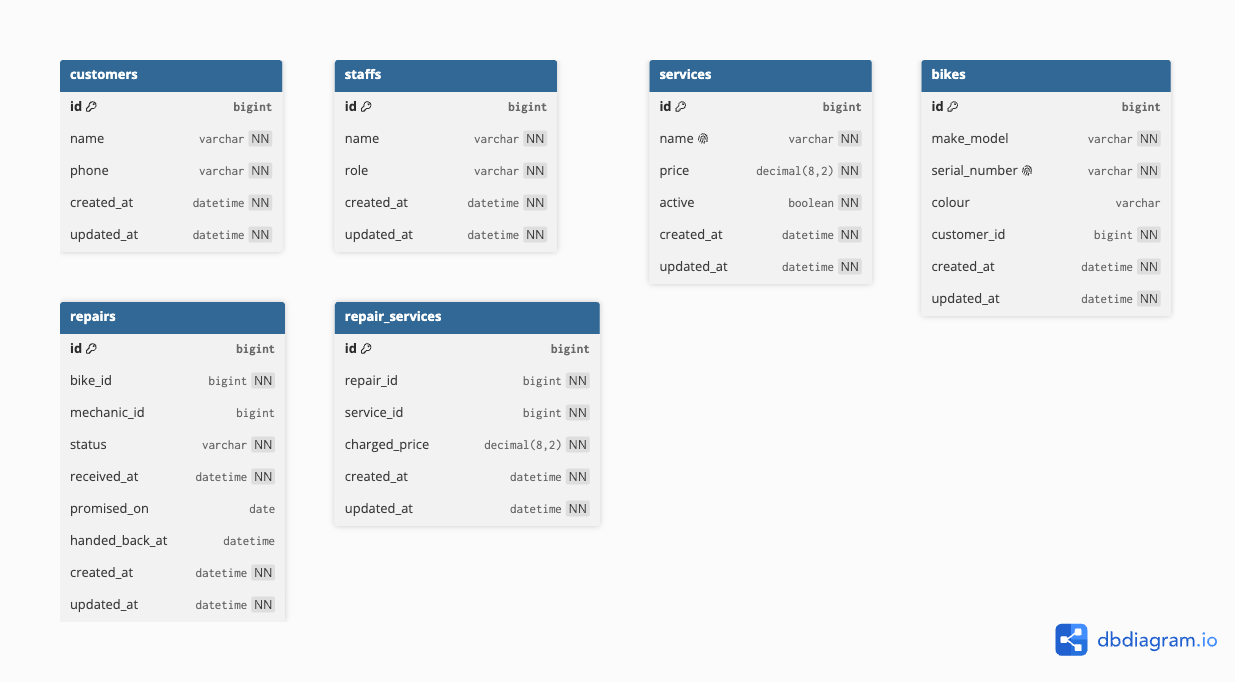
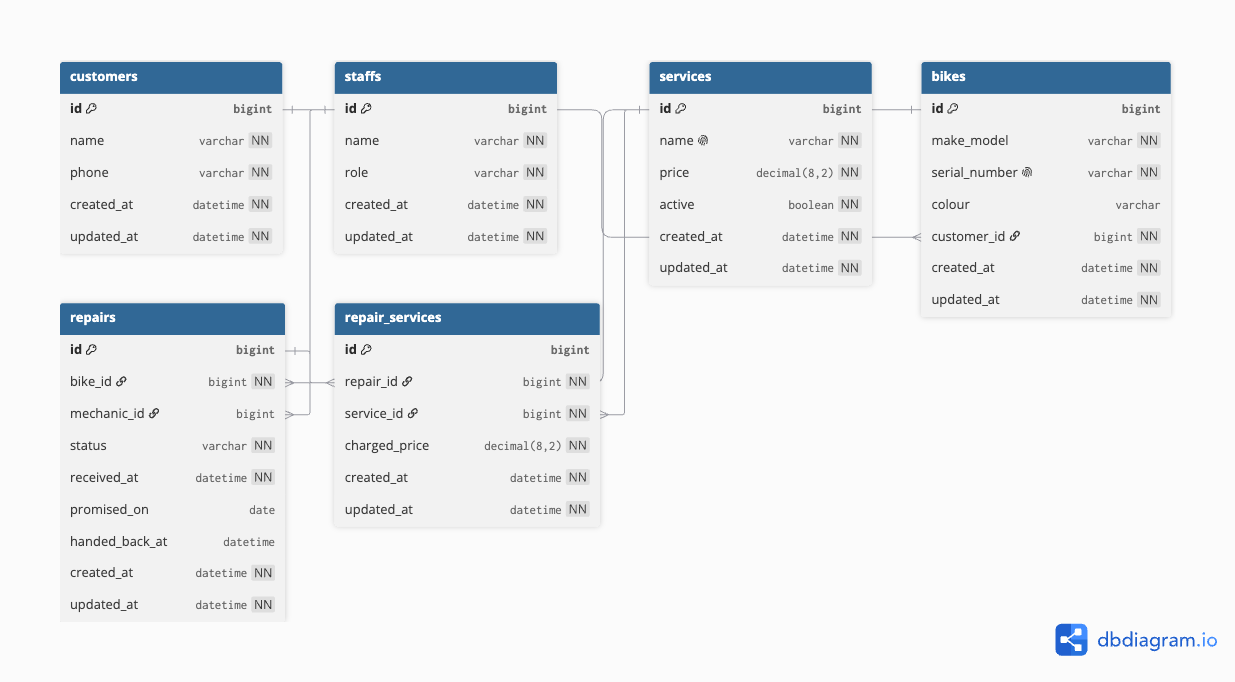
Show relationships in the domain model diagram

diff --git a/docs/domain-model.md b/docs/domain-model.md
@@ -9,9 +9,9 @@
 The image above was produced from this code in [dbdiagram.io](https://dbdiagram.io).
 It compiles as it stands and describes the schema built in Lab 5 (see `db/schema.rb`):
 six tables, `bigint` primary and reference columns, `decimal(8,2)` money, and the
-unique indexes the database enforces. Foreign-key constraints are **not** declared —
-the `_id` columns are plain columns today; the constraints and the Rails associations
-that use them are added in Lab 7.
+unique indexes the database enforces. The relationships are drawn from the `_id`
+columns. The database does **not** yet enforce them with foreign-key constraints —
+those, and the Rails associations that use them, are added in Lab 7.
 
 ```dbml
 Table customers {
@@ -83,6 +83,14 @@ Table repair_services {
     service_id
   }
 }
+
+// Relationships carried by the _id columns.
+// Drawn here; enforced by foreign-key constraints in Lab 7.
+Ref: bikes.customer_id > customers.id
+Ref: repairs.bike_id > bikes.id
+Ref: repairs.mechanic_id > staffs.id
+Ref: repair_services.repair_id > repairs.id
+Ref: repair_services.service_id > services.id
 ```
 
 ## Relationships
@@ -155,8 +163,9 @@ Every difference between the diagram submitted in Lab 3 and the schema built tod
 - **All `id` and `_id` columns are `bigint`** (the Rails 8 default) rather than
   `integer`; each `_id` is the same type as the `id` it holds.
 - **`created_at` / `updated_at` added to every table** — Rails timestamps.
-- **Foreign-key `ref`s removed** — the `_id` columns are plain columns today; the
-  foreign-key constraints and the Rails associations are added in Lab 7.
+- **Relationships shown but not enforced** — the diagram draws the relationships the
+  `_id` columns carry, but the database does not enforce them with foreign-key
+  constraints today; those constraints and the Rails associations are added in Lab 7.
 
 ## Entities and the stories that require them
 
